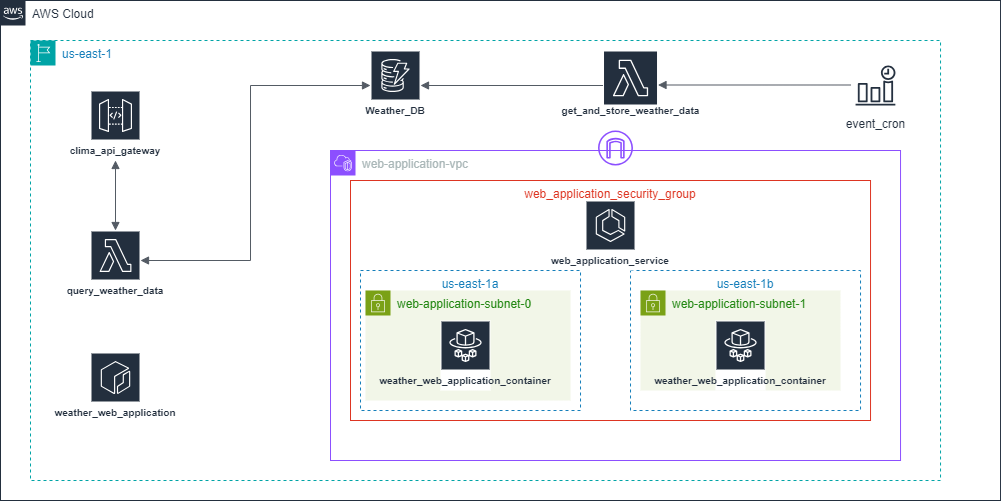
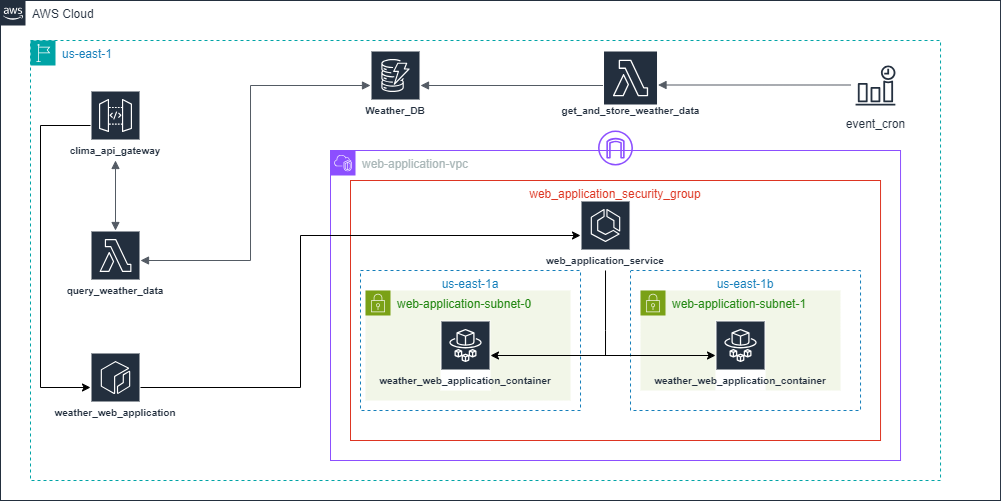
docs: README.md mejorado

diff --git a/README.md b/README.md
@@ -2,6 +2,16 @@
 
 En este repositorio se recopila todo el código desarrollado para el Trabajo Final de Máster del Máster de Ciencia de Datos e Ingeniería de Datos en la Nube.
 
+Se despliega toda una infraestructura en `AWS` para crear un sistema de verificación de datos geoespaciales:
+
+- Se crea una `Lambda` que realiza peticiones a una `API` de datos meteorológicos cada dos horas para procesarlos y almacenarlos en una tabla de `DynamoDB`.
+
+- Se despliega una `API Gateway` con dos recursos (`GET /clima` y `GET /clima/{provincia}`) e integrada con otra `Lambda` para que se puedan consultar los datos almacenados en la tabla de `DynamoDB` mediante dicha API.
+
+- Por último, se crea una aplicación web con `Streamlit` para mostrar los datos de forma gráfica en un mapa, además de visualizaciones de los datos con `Seaborn`. Esta aplicación se conteneriza creando una imagen de `Docker` para subirla a `ECR` y desplegarla mediante un servicio de `ECS` con `Fargate`, realizando la configuración de red (subredes, grupo de seguridad, puerta de enlace de internet, etc) mediante `VPC`.
+
+Se realiza `linting` del código de Python, se ejecutan tests unitarios y se realiza el aprovisionamiento de toda la infraestructura de `AWS` con `Terraform` mediante un proceso de `CI/CD` con `GitHub Actions`.
+
 
 ## Estructura
 
